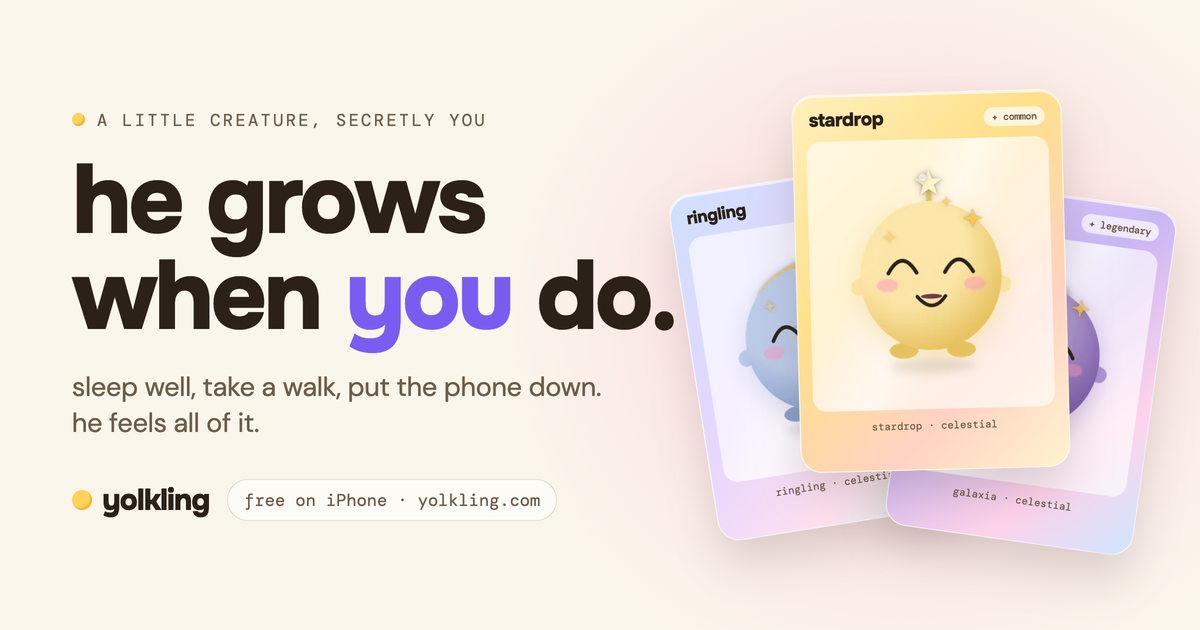
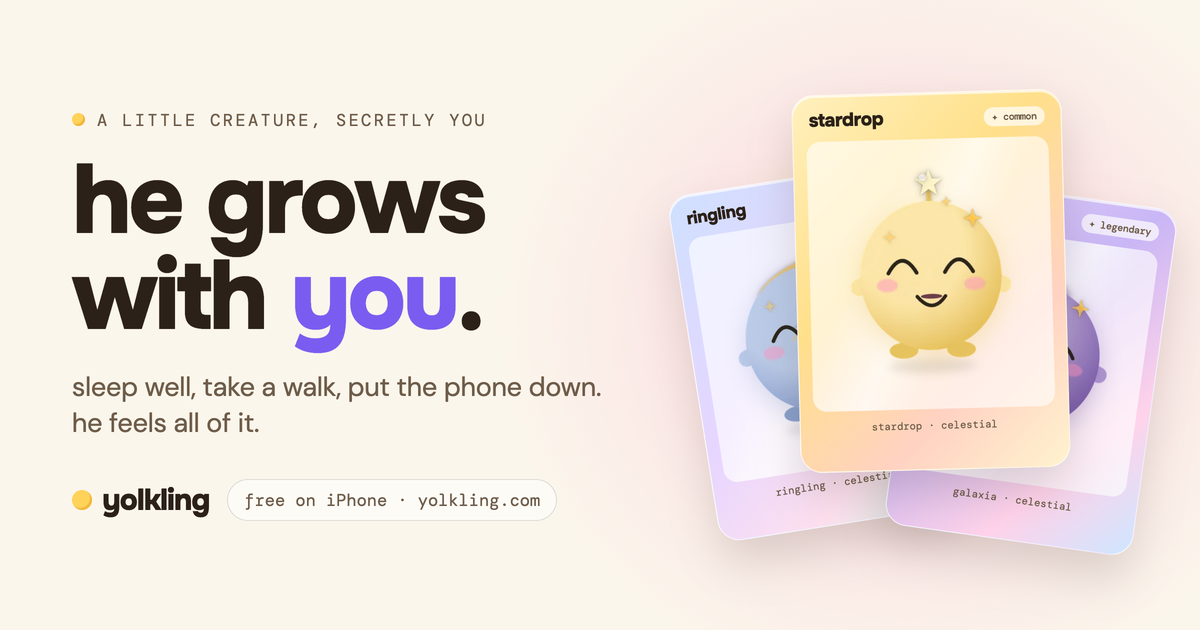
Hero: he grows with you. Digital pet, not a trademark, in the flip section

Changed region(s): [[0.1233, 0.3921, 0.5858, 0.573]]

diff --git a/app/body.ts b/app/body.ts
@@ -45,7 +45,7 @@ export const BODY = `
       <p class="hero-eyebrow mono"><span class="pip"></span> a little creature, secretly you</p>
       <h1 class="hero-h1">
         <span class="line-mask"><span class="line">he grows</span></span>
-        <span class="line-mask"><span class="line">when <span class="wob">you</span> do.</span></span>
+        <span class="line-mask"><span class="line">with <span class="wob">you</span>.</span></span>
       </h1>
       <p class="hero-sub">sleep well, take a walk, put the phone down. he feels all of it.</p>
       <div class="when-wl">
@@ -148,7 +148,7 @@ export const BODY = `
   <section class="feeds" id="feeds">
     <div class="section-head"><span class="sh" data-hatch="1"><i class="sh-egg" aria-hidden="true"></i><span class="sh-label">the flip</span></span></div>
     <div class="feeds-head">
-      <h2 class="big-h">you kept a tamagotchi alive.<br/>this one looks after <span class="wob2">you.</span></h2>
+      <h2 class="big-h">you kept a digital pet alive.<br/>this one looks after <span class="wob2">you.</span></h2>
     </div>
     <div class="tiles">
       <article class="tile tile-lemon" data-cycle>
@@ -325,7 +325,7 @@ export const BODY = `
       <div class="footer-col mono"><a href="/support">support</a><a href="/press">press</a><a href="/privacy">privacy</a><a href="/terms">terms</a></div>
       <div class="footer-col mono footer-status"><p class="live when-wl">● <span id="footLive">early access is open</span></p><p class="live when-live">● out now on the App Store</p><p>made by two people, with snacks and feelings</p><p>© 2026, please drink water</p></div>
     </div>
-    <p class="footer-legal">Apple, the Apple logo, iPhone and Apple Health are trademarks of Apple Inc., registered in the U.S. and other countries. App Store is a service mark of Apple Inc. Tamagotchi is a trademark of Bandai. Yolkling is not affiliated with Apple or Bandai.</p>
+    <p class="footer-legal">Apple, the Apple logo, iPhone and Apple Health are trademarks of Apple Inc., registered in the U.S. and other countries. App Store is a service mark of Apple Inc. Yolkling is not affiliated with Apple.</p>
   </footer>
 </div>
 `;

diff --git a/design/og-image.html b/design/og-image.html
@@ -32,7 +32,7 @@ h1 em{font-style:normal;color:#7B5CF0}
 <div class="glow"></div>
 <div class="left">
   <div class="eye"><span class="dot"></span>a little creature, secretly you</div>
-  <h1>he grows<br>when <em>you</em> do.</h1>
+  <h1>he grows<br>with <em>you</em>.</h1>
   <div class="sub">sleep well, take a walk, put the phone down. he feels all of it.</div>
   <div class="foot"><div class="wm"><span class="dot"></span>yolkling</div><div class="pill">free on iPhone · yolkling.com</div></div>
 </div>
